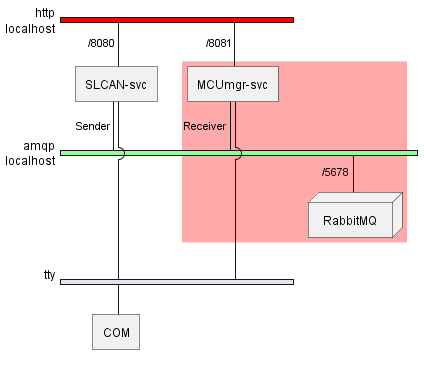
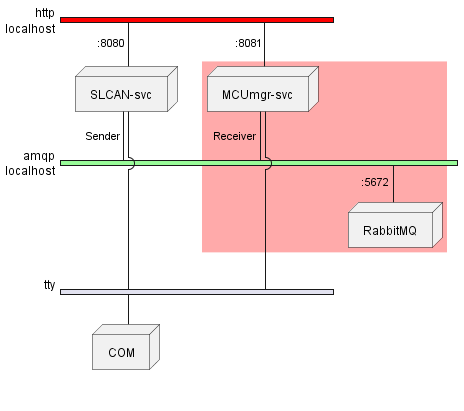
Update UML

Changed region(s): [[0.0, 0.0, 1.0, 0.9207]]

diff --git a/README.md b/README.md
@@ -28,22 +28,13 @@ This repository implements a [go-kit](https://github.com/go-kit/kit) based micro
                 AMQP dialing address (default "amqp://guest:guest@localhost:5672/")
 ```
 
-5. Use curl to post CAN message
+5. Use curl to interact with RESTful APIs
 
 ```
 curl http://localhost:8080/slcan --include --header "Content-Type: application/json" \
 --request "POST" --data "{"id": 123, "data": "200rpm"}"
 ```
 
-6. to get CAN message
-
-```
-curl http://localhost:8080/slcan/123 --include --header "Content-Type: application/json" \
---request "GET"
-
-{"message":{"id":123,"data":"200rpm"}}
-
-```
 ## Intergrating with MCUmgr Service
 
 
